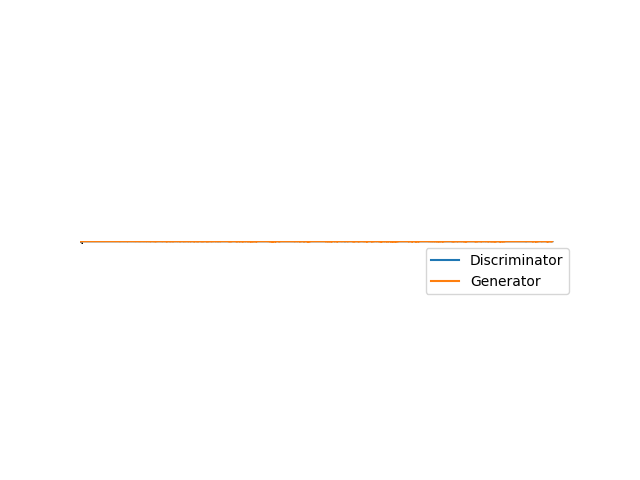
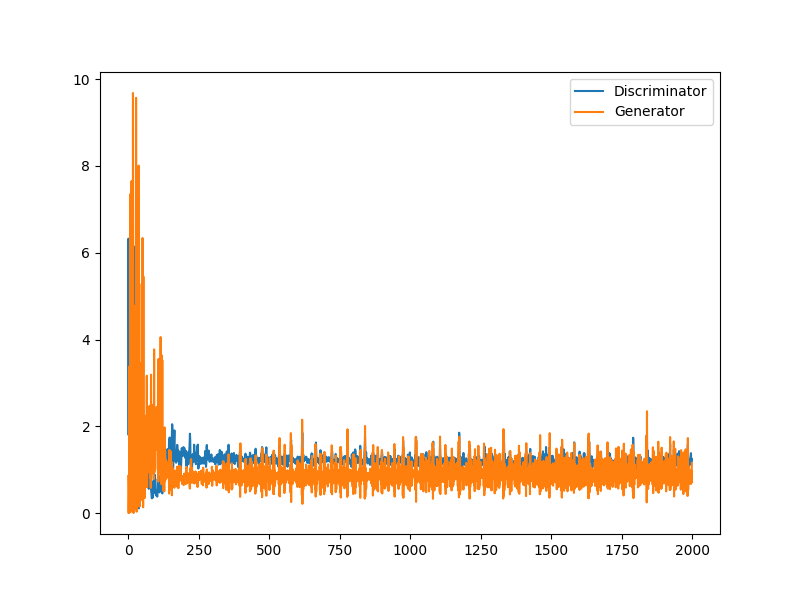
2019/02/17

diff --git a/train.py b/train.py
@@ -22,7 +22,7 @@ OUTPUT_DIR = 'samples'
 if not os.path.exists(OUTPUT_DIR):
     os.mkdir(OUTPUT_DIR)
 
-	
+
 # X 用来传入真实的图片
 X = tf.placeholder(dtype=tf.float32, shape=[None, 28, 28, 1], name='X')
 # noise 传入噪声用以生成图片
@@ -156,7 +156,7 @@ z_samples = np.random.uniform(-1.0, 1.0, [batch_size, z_dim]).astype(np.float32)
 samples = []
 loss = {'d': [], 'g': []}
 # 训练 60000 步
-for i in range(60000):
+for i in range(2000):
     # 生成了 batch_size 个 z_dim 维的噪声数据
     # 这里是生成了 100 个 100 维的向量，这些向量中的值服从 -1 到 1 的均匀分布
     n = np.random.uniform(-1.0, 1.0, [batch_size, z_dim]).astype(np.float32)
@@ -172,15 +172,15 @@ for i in range(60000):
     loss['g'].append(g_ls)
     """
     训练判别器相对来说要容易一些，训练生成器相对来说要难一些，所以多训练一次生成器，这种做法比较粗糙
-    
-    To avoid the fast convergence of D (discriminator) network, 
+
+    To avoid the fast convergence of D (discriminator) network,
     G (generator) network is updated twice for each D network update, which differs from original paper.
     """
     sess.run(optimizer_d, feed_dict={X: batch, noise: n, is_training: True})
     sess.run(optimizer_g, feed_dict={X: batch, noise: n, is_training: True})
     sess.run(optimizer_g, feed_dict={X: batch, noise: n, is_training: True})
     # 每训练 1000 步，做一些操作
-    if i % 1000 == 0:
+    if i % 100 == 0:
         # 打印当前步数，判别器的 loss 值和生成器的 loss 值
         print(i, d_ls, g_ls)
         # 生成图片
@@ -203,6 +203,7 @@ for i in range(60000):
         # 将图片添加到列表中，生成动图用
         samples.append(gen_imgs)
 # 画 loss 曲线
+plt.figure(figsize=(8, 6))
 plt.plot(loss['d'], label='Discriminator')
 plt.plot(loss['g'], label='Generator')
 # 图例位于右上角

diff --git a/main.py b/main.py
@@ -1,0 +1,47 @@
+# -*- coding: utf-8 -*-
+
+import tensorflow as tf
+import numpy as np
+import matplotlib as mpl
+mpl.use('Agg')
+mpl.rcParams['font.sans-serif'] = ['SimHei']  # 显示中文
+import matplotlib.pyplot as plt
+
+batch_size = 100
+z_dim = 100
+
+def montage(images):
+    if isinstance(images, list):
+        images = np.array(images)
+    img_h = images.shape[1]
+    img_w = images.shape[2]
+    n_plots = int(np.ceil(np.sqrt(images.shape[0])))
+    m = np.ones((images.shape[1] * n_plots + n_plots + 1, images.shape[2] * n_plots + n_plots + 1)) * 0.5
+    for i in range(n_plots):
+        for j in range(n_plots):
+            this_filter = i * n_plots + j
+            if this_filter < images.shape[0]:
+                this_img = images[this_filter]
+                m[1 + i + i * img_h:1 + i + (i + 1) * img_h,
+                  1 + j + j * img_w:1 + j + (j + 1) * img_w] = this_img
+    return m
+
+sess = tf.Session()
+sess.run(tf.global_variables_initializer())
+
+saver = tf.train.import_meta_graph('./mnist_dcgan-60000.meta')
+saver.restore(sess, tf.train.latest_checkpoint('./'))
+
+graph = tf.get_default_graph()
+g = graph.get_tensor_by_name('generator/g/Tanh:0')
+noise = graph.get_tensor_by_name('noise:0')
+is_training = graph.get_tensor_by_name('is_training:0')
+
+n = np.random.uniform(-1.0, 1.0, [batch_size, z_dim]).astype(np.float32)
+gen_imgs = sess.run(g, feed_dict={noise: n, is_training: False})
+gen_imgs = (gen_imgs + 1) / 2
+imgs = [img[:, :, 0] for img in gen_imgs]
+gen_imgs = montage(imgs)
+plt.axis('off')
+plt.imshow(gen_imgs, cmap='gray')
+plt.savefig('gen.png')

diff --git a/README.md b/README.md
@@ -18,15 +18,10 @@ Ian J. Goodfellow 等人于 2014 年在论文 Generative Adversarial Nets 中提
 
 ![](object_function.png)
 
-
 D 最大化该函数，G 最小化该函数，输入为 0 ~ 1 时，log 的输出为负无穷 ~ 0。
-
 对于真实数据，D 希望为其打上标签 1，即 D 希望 D(x) 尽可能接近 1，D 希望最大化该目标函数。
-
 对于生成器生成的数据，D 希望为其打上标签 0，即 D 希望 D(G(z)) 尽可能接近 0，D 希望最大化该目标函数。
-
 对于生成器生成的数据，G 希望 D 为其打上标签 1，及 G 希望 D(G(z)) 尽可能接近 1，G希望最小化该目标函数。
-
 
 ## 生成器的实现
 
